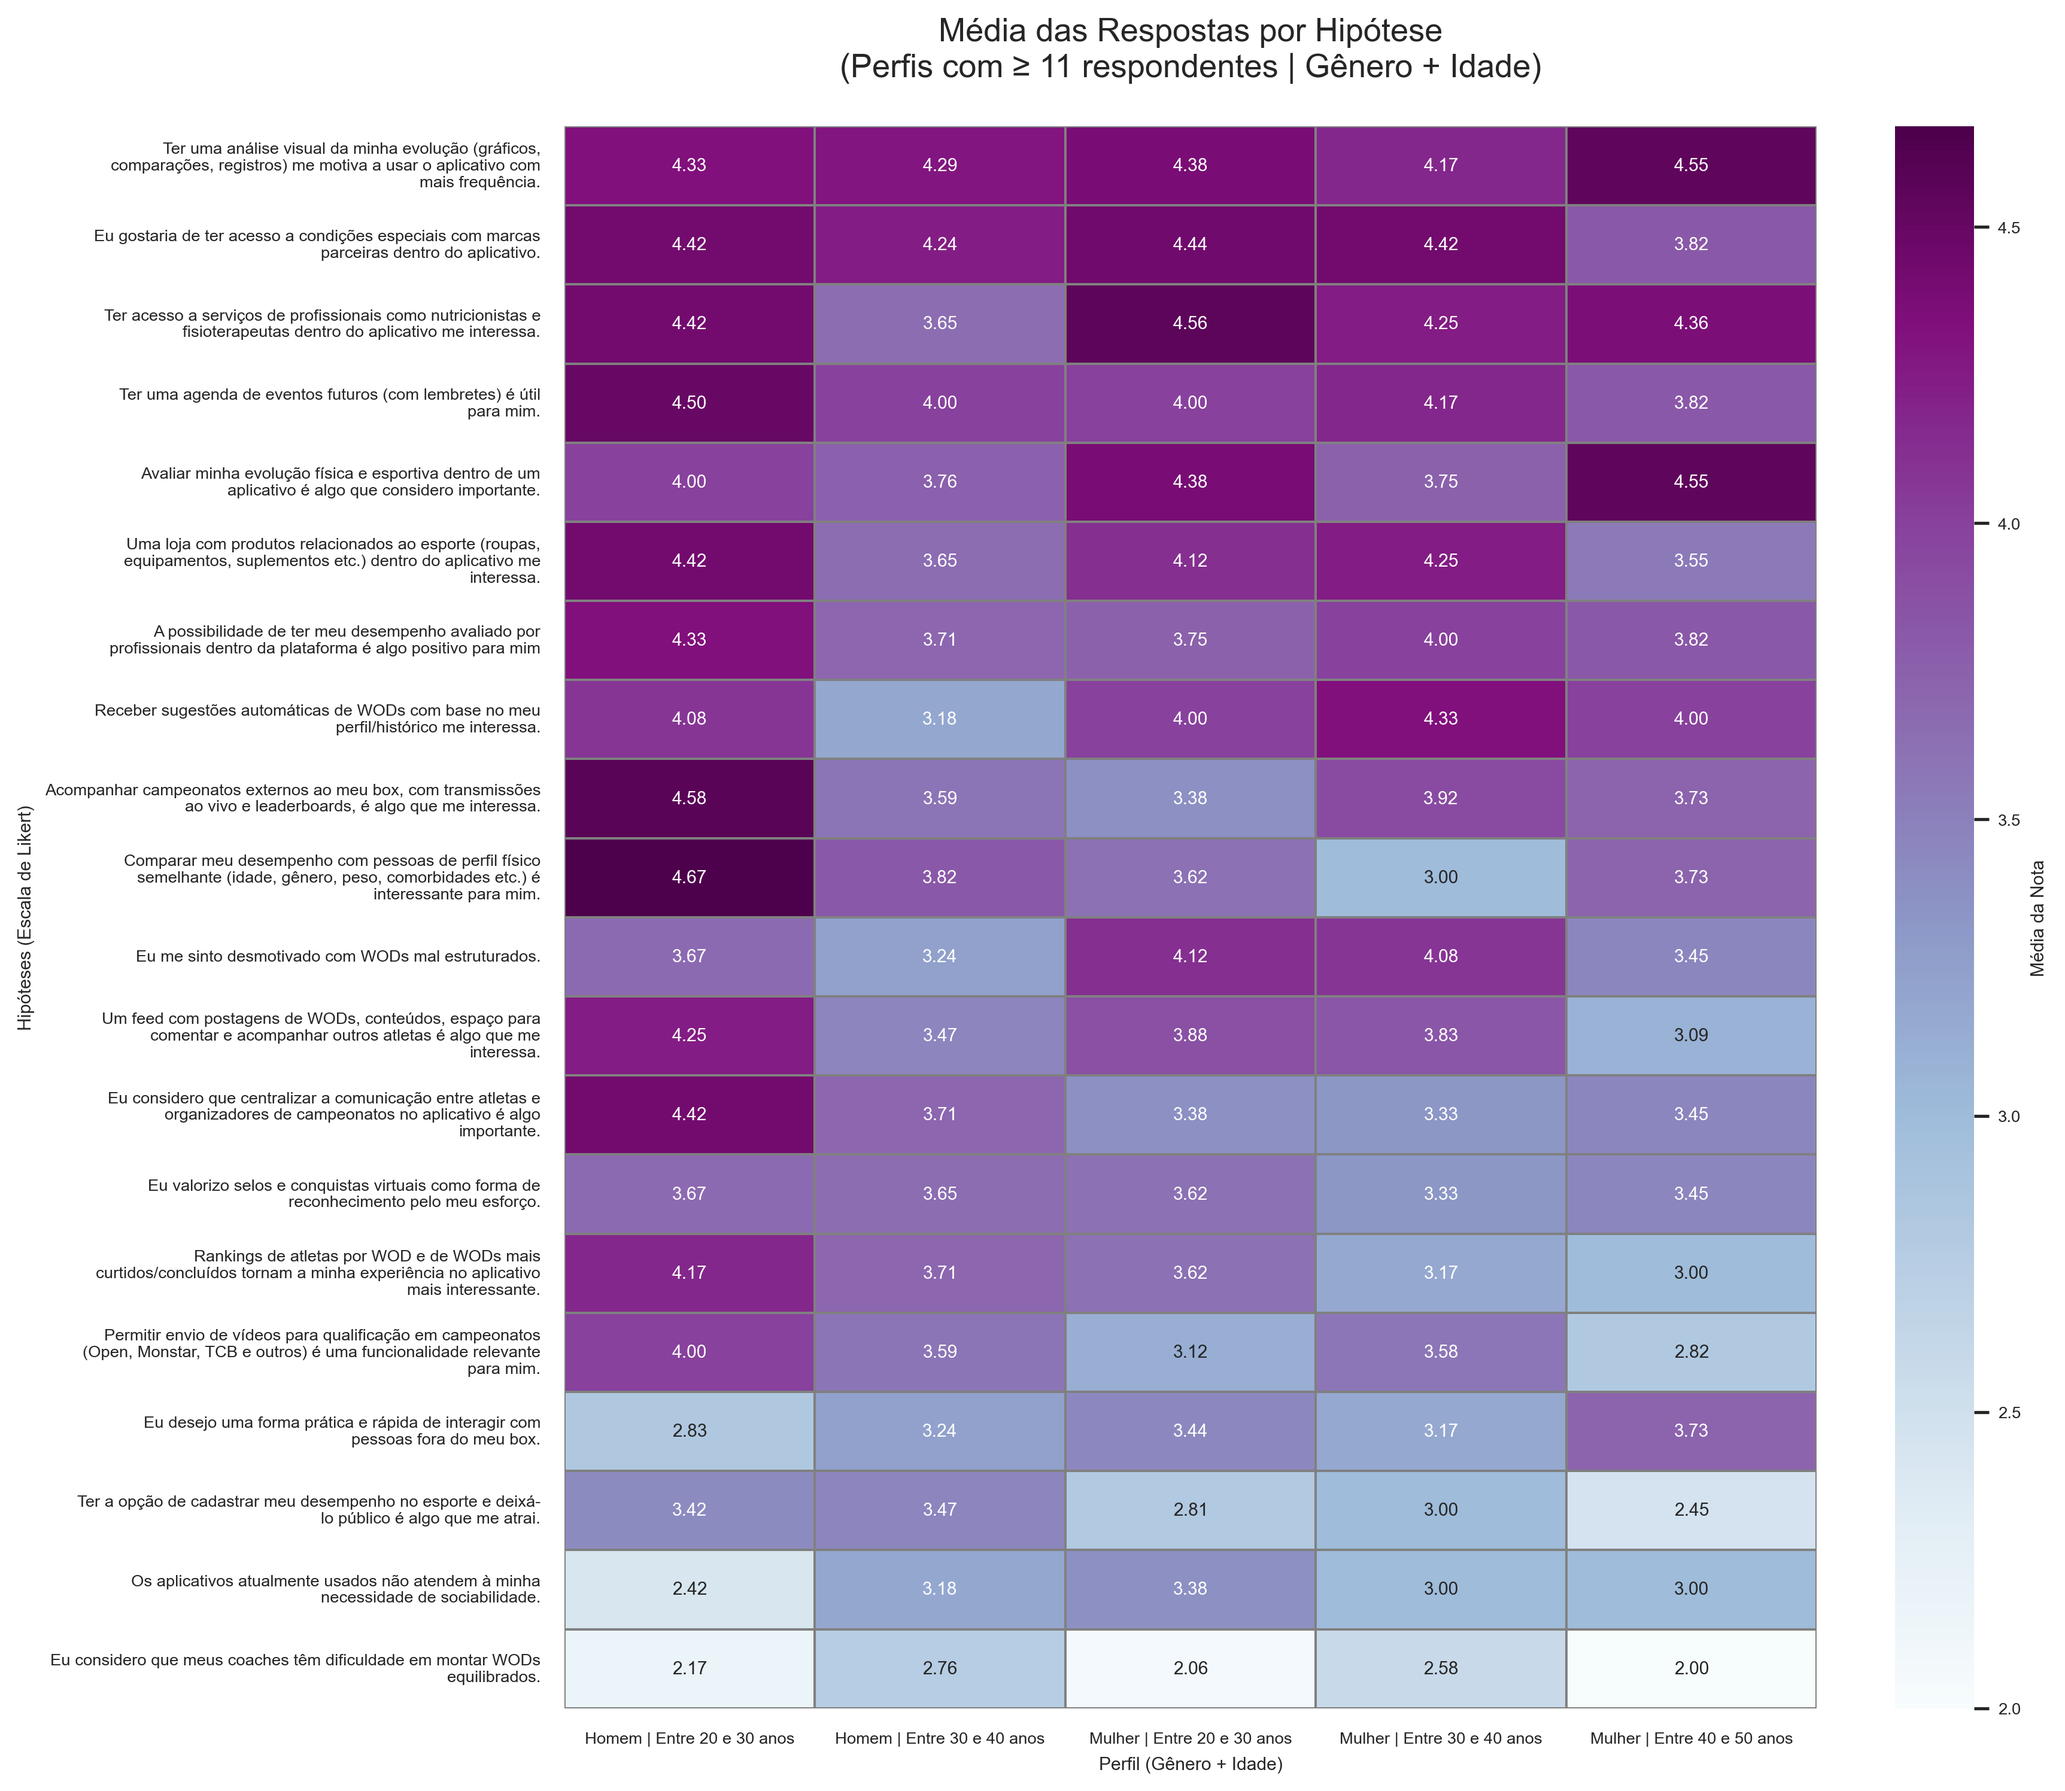
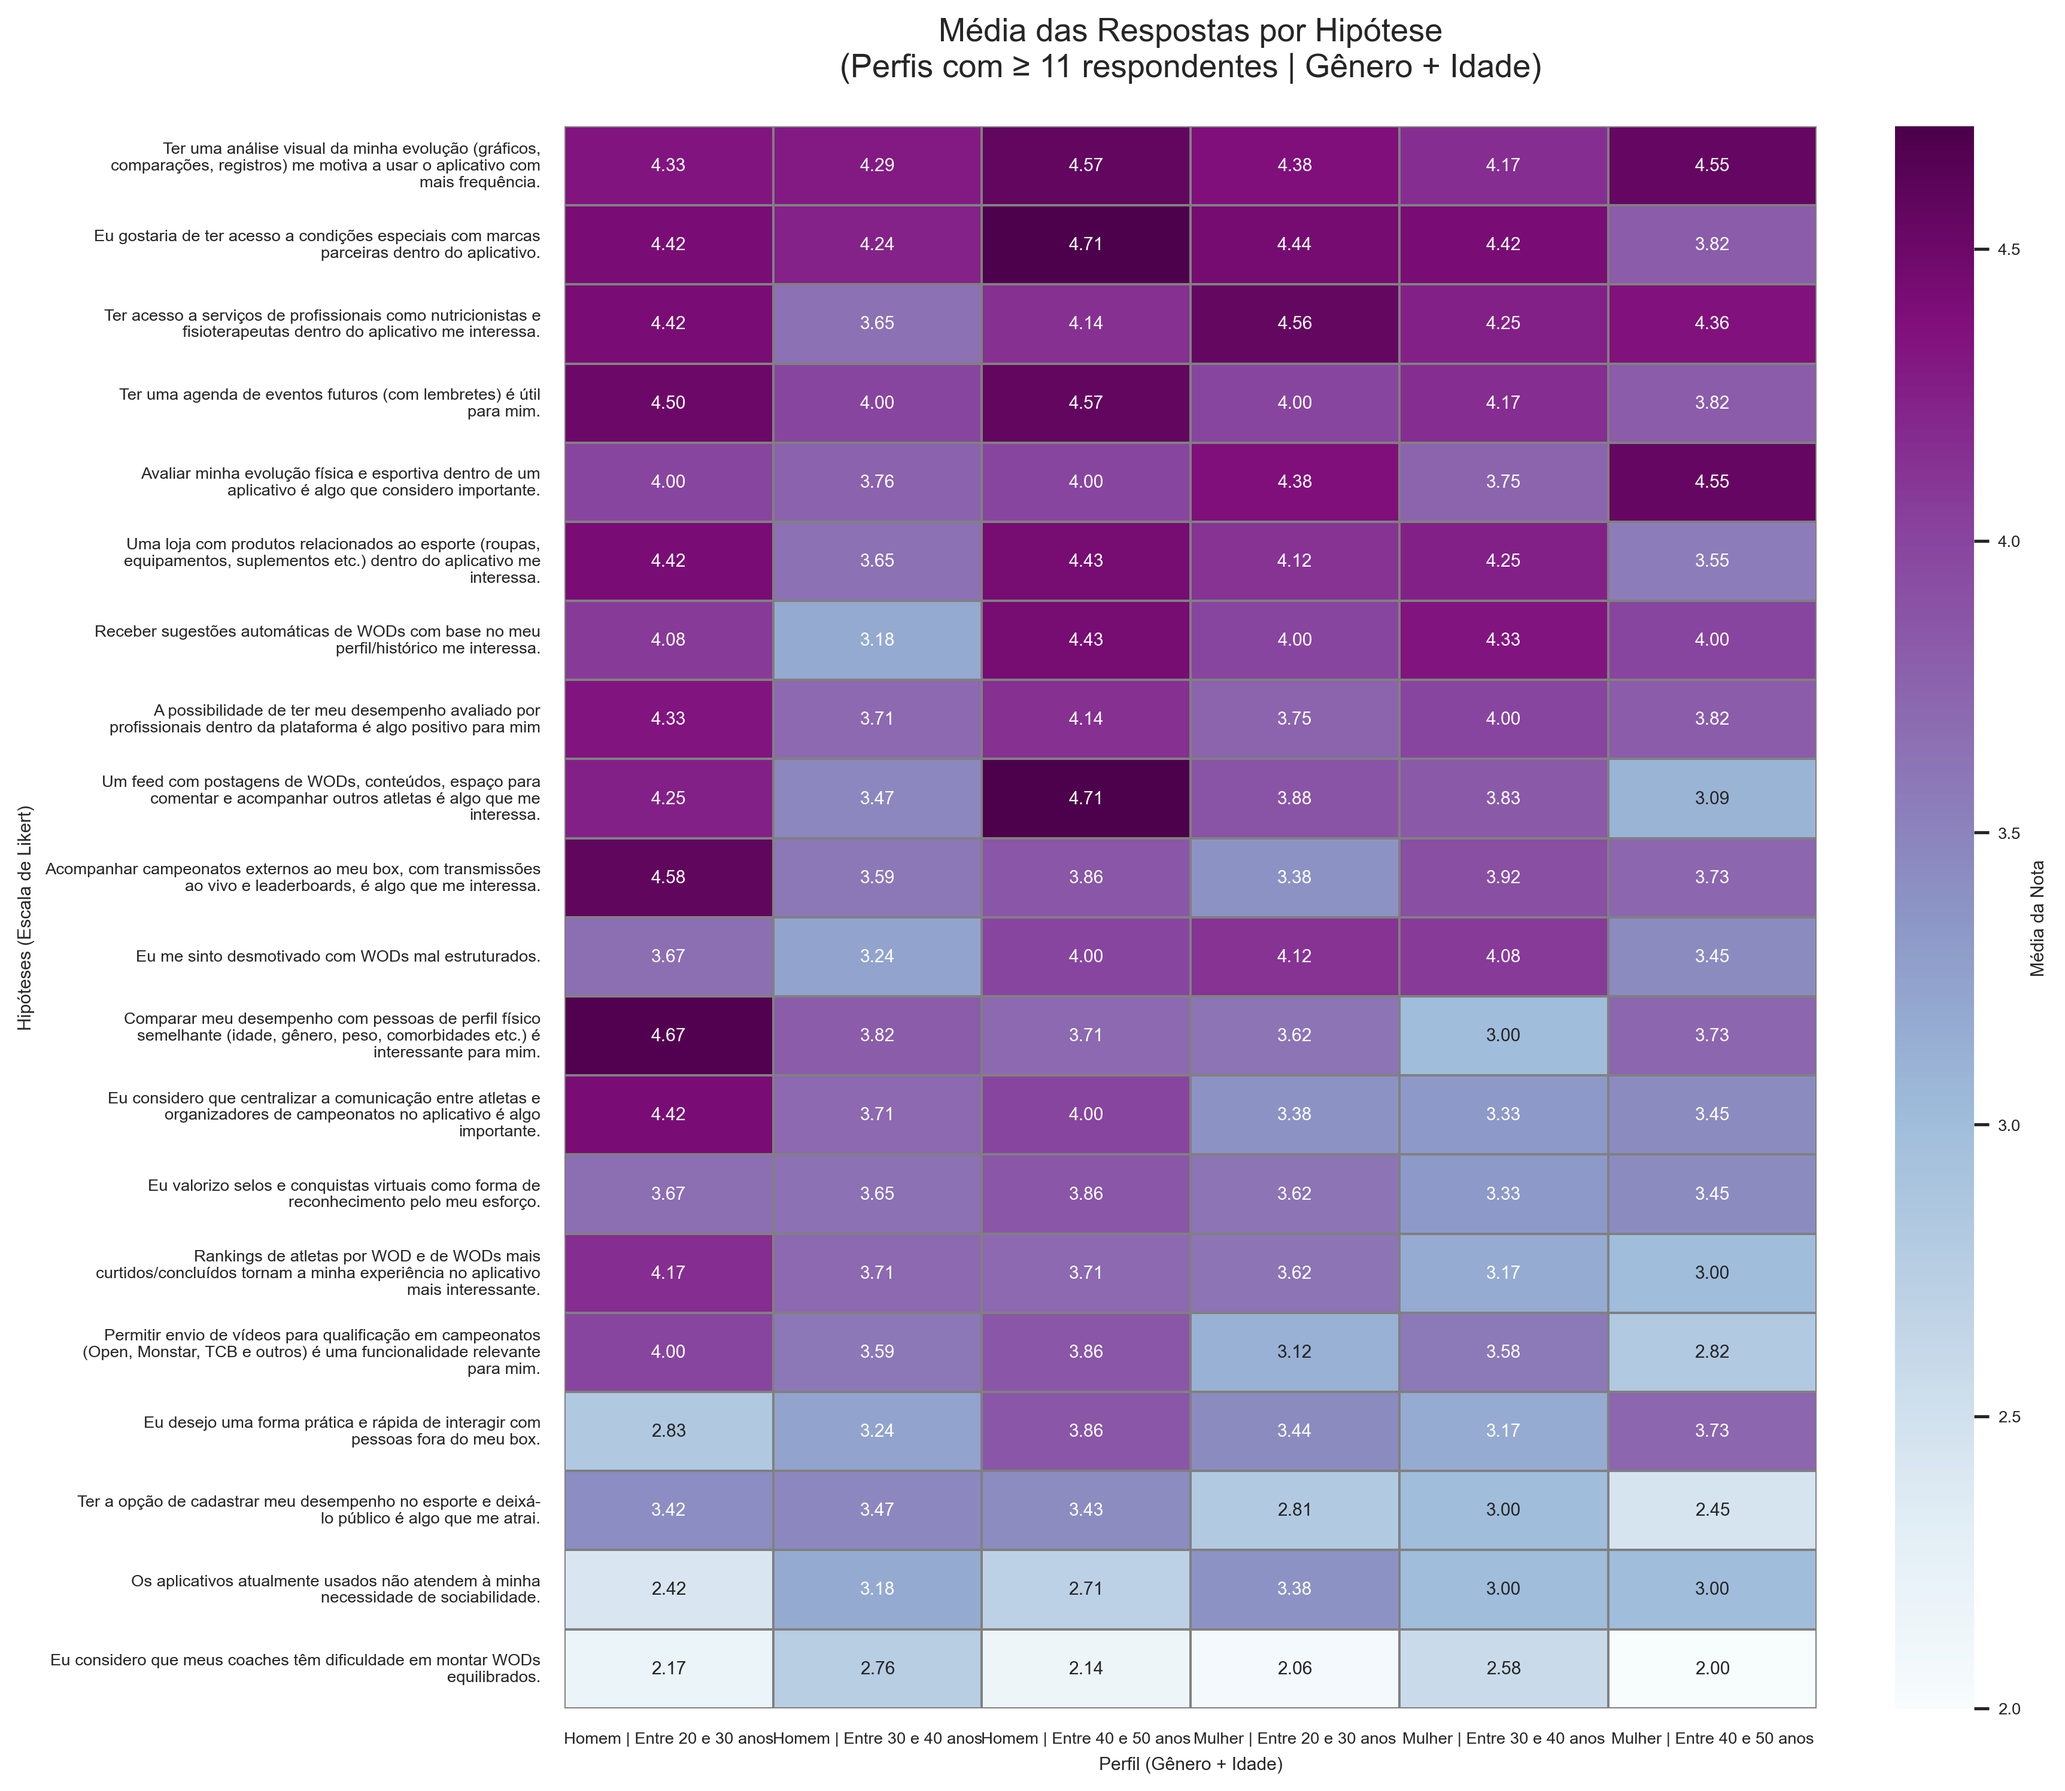
feat(personas): define user personas and Value Proposition Canvas for MVP
- Identified ideal user profiles based on demographic and training attributes
  (Coach: male, 30–40 years old, +5 years of experience | Athlete: female, 20–30 years old, 3–5 years of experience)
- Filtered and analyzed open-ended responses from selected segments
- Extracted key pains, goals, and behavioral patterns to support UX decisions
- Structured complete Value Proposition Canvas (Jobs, Pains, Gains, Relievers, Creators) for each persona
- Generated realistic avatar images for Camila (athlete) and Lucas (coach) to enhance storytelling in TCC deliverables

diff --git a/scripts_gerais/ux_tests/distribuicao_coach_vs_praticante.py b/scripts_gerais/ux_tests/distribuicao_coach_vs_praticante.py
@@ -1,0 +1,65 @@
+import pandas as pd
+import matplotlib.pyplot as plt
+import seaborn as sns
+import os
+
+# Caminho do arquivo CSV
+arquivo = "scripts_gerais/respostas_formulario.csv"
+df = pd.read_csv(arquivo)
+
+# Colunas utilizadas
+coluna_cargo = "Com qual dessas opções você se identifica?"
+coluna_genero = "Qual seu gênero"
+coluna_idade = "Qual sua faixa de idade?"
+coluna_tempo = "Há quanto tempo você treina crossfit?"
+
+# Define grupo baseado na resposta
+def classificar_grupo(cargo):
+    if cargo == "Sou coach/instrutor de CrossFit" or cargo == "Ambos":
+        return "Coach"
+    elif cargo == "Sou praticante/aluno de CrossFit":
+        return "Praticante"
+    else:
+        return None
+
+df["Grupo"] = df[coluna_cargo].apply(classificar_grupo)
+df_filtrado = df[df["Grupo"].isin(["Coach", "Praticante"])]
+
+# Garante que a pasta de saída exista
+os.makedirs("scripts_gerais/ux_tests", exist_ok=True)
+
+# Função para gerar dataframe de contagem
+def gerar_tabela(coluna):
+    return df_filtrado.groupby(["Grupo", coluna]).size().unstack().fillna(0)
+
+# Tabelas de contagem para cada dimensão
+tabela_genero = gerar_tabela(coluna_genero)
+tabela_idade = gerar_tabela(coluna_idade)
+tabela_tempo = gerar_tabela(coluna_tempo)
+
+# Define estilo visual
+sns.set(style="whitegrid")
+fig, axs = plt.subplots(1, 3, figsize=(18, 6))
+
+# Gráfico 1: Gênero
+tabela_genero.T.plot(kind="barh", ax=axs[0], color=["#6A1B9A", "#283593"])
+axs[0].set_title("Distribuição por Gênero")
+axs[0].set_xlabel("Número de Pessoas")
+axs[0].set_ylabel("Gênero")
+
+# Gráfico 2: Faixa Etária
+tabela_idade.T.plot(kind="barh", ax=axs[1], color=["#6A1B9A", "#283593"])
+axs[1].set_title("Distribuição por Faixa Etária")
+axs[1].set_xlabel("Número de Pessoas")
+axs[1].set_ylabel("Idade")
+
+# Gráfico 3: Tempo de Prática
+tabela_tempo.T.plot(kind="barh", ax=axs[2], color=["#6A1B9A", "#283593"])
+axs[2].set_title("Distribuição por Tempo de Prática")
+axs[2].set_xlabel("Número de Pessoas")
+axs[2].set_ylabel("Tempo")
+
+# Layout final
+plt.tight_layout()
+plt.savefig("scripts_gerais/ux_tests/distribuicao_coach_vs_praticante.png", dpi=300, bbox_inches='tight')
+plt.show()

diff --git a/scripts_gerais/ux_tests/hipoteses_idade_genero.py b/scripts_gerais/ux_tests/hipoteses_idade_genero.py
@@ -48,7 +48,7 @@ df["Perfil Genero x Idade"] = (
 contagem_perfis = df["Perfil Genero x Idade"].value_counts()
 
 # Filtra apenas os perfis com 11 ou mais respondentes
-perfis_filtrados = contagem_perfis[contagem_perfis >= 11].index.tolist()
+perfis_filtrados = contagem_perfis[contagem_perfis >= 7].index.tolist()
 
 # Filtra o DataFrame com apenas os perfis de interesse
 df_filtrado = df[df["Perfil Genero x Idade"].isin(perfis_filtrados)]
@@ -59,7 +59,7 @@ medias_por_perfil = df_filtrado.groupby("Perfil Genero x Idade")[colunas_likert]
 # Cria uma estrutura para guardar os resultados em formato plano
 dados_filtrados = []
 
-# Para cada perfil, verifica quais hipóteses tiveram média ≥ 3 e adiciona no resultado
+# Para cada perfil, verifica a media das hipoteses
 for perfil, linha in medias_por_perfil.iterrows():
     for hipotese, media in linha.items():
         dados_filtrados.append({

diff --git a/scripts_gerais/ux_tests/hipoteses_todos_perfis.py b/scripts_gerais/ux_tests/hipoteses_todos_perfis.py
@@ -7,9 +7,9 @@ import os
 
 # Dicionário com caminhos e limites mínimos de respondentes por distribuição
 arquivos_com_limites = {
-    "scripts_gerais/ux_tests/hipoteses_por_genero_tempo.csv": 12,
+    "scripts_gerais/ux_tests/hipoteses_por_genero_tempo.csv": 7,
     "scripts_gerais/ux_tests/hipoteses_por_idade_tempo.csv": 7,
-    "scripts_gerais/ux_tests/hipoteses_por_genero_idade.csv": 11
+    "scripts_gerais/ux_tests/hipoteses_por_genero_idade.csv": 7
 }
 
 # Lista para armazenar os DataFrames filtrados
